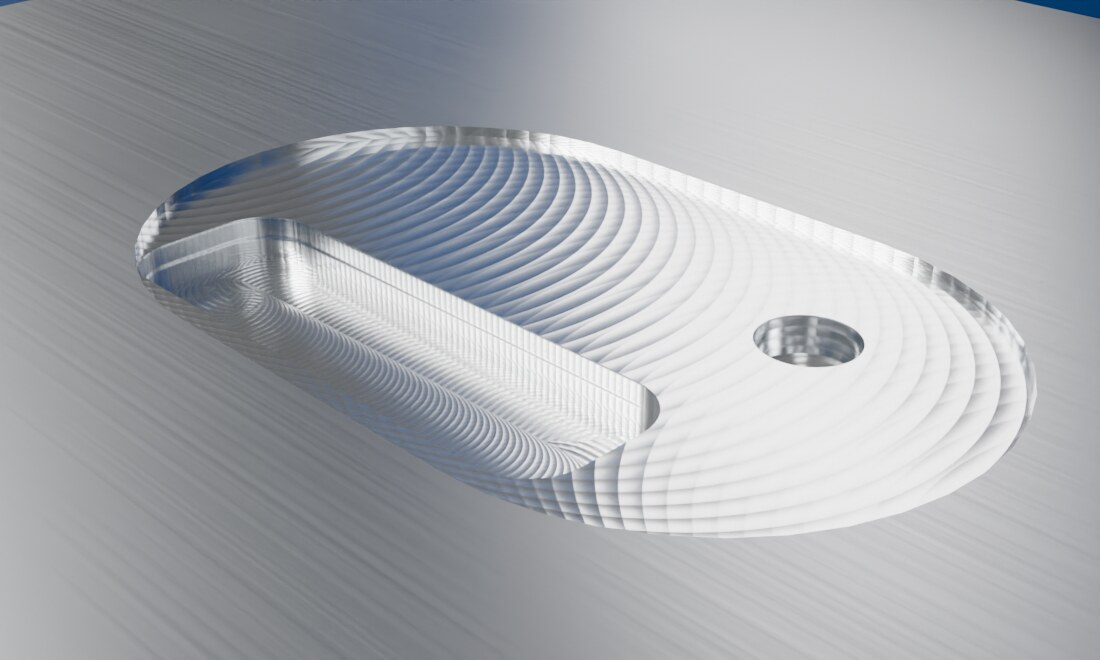
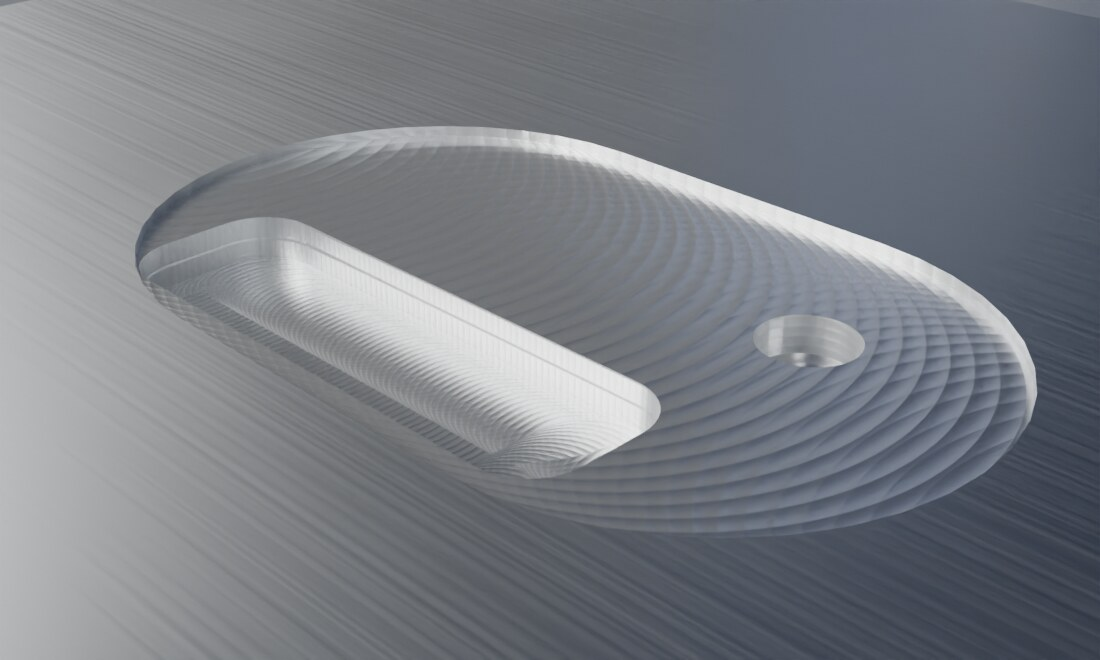
Task 0280: stop 60's camera rides on the table, guide pictures, before/after sheet
Claude-Session: https://claude.ai/code/session_01LGPBd7fAg5Luxdco3vziM1

diff --git a/tasks/0280_page/index.html b/tasks/0280_page/index.html
@@ -1,0 +1,16 @@
+<!doctype html><meta charset=utf-8><title>Task 0280 tool marks</title>
+<style>body{font-family:sans-serif;margin:16px;background:#f4f4f4;color:#222}img{max-width:100%;border:1px solid #bbb}h2{margin-top:28px}</style>
+<h1>Task 0280 – tool marks before / after, defaults only</h1>
+<p>Each sheet: top row before (0.2.201), bottom row after. Columns: the stop's own camera, a mid view of the cut, a close-up of a floor, a close-up of a wall; each in EEVEE and Cycles (24 samples, denoised), 480 × 270 px (the picture size the marks' level of detail is set for). Learning-hub sets, invented test models only; Mark size as each set has it (1, stop 60: 7). Views a set has no such face for are grey.</p>
+<h2>A person changes the tool (stop 55)</h2><img src='55_operator.jpg' alt='A person changes the tool (stop 55)'>
+<h2>CNC gantry: G-code, acceleration, set-up (stops 56, 57, 69)</h2><img src='56_gcode.jpg' alt='CNC gantry: G-code, acceleration, set-up (stops 56, 57, 69)'>
+<h2>Three tools and the hand (stops 58, 59)</h2><img src='58_tools.jpg' alt='Three tools and the hand (stops 58, 59)'>
+<h2>Tool marks (stop 60)</h2><img src='60_marks.jpg' alt='Tool marks (stop 60)'>
+<h2>Tool changer (stop 61)</h2><img src='61_atc.jpg' alt='Tool changer (stop 61)'>
+<h2>Double-arm tool changer (stop 62)</h2><img src='62_doublearm.jpg' alt='Double-arm tool changer (stop 62)'>
+<h2>4th axis (stop 63)</h2><img src='63_rotary4.jpg' alt='4th axis (stop 63)'>
+<h2>5th axis (stop 64)</h2><img src='64_rotary5.jpg' alt='5th axis (stop 64)'>
+<h2>The app makes the toolpath (stop 65)</h2><img src='65_toolpath.jpg' alt='The app makes the toolpath (stop 65)'>
+<h2>Milling a slot (stop 66)</h2><img src='66_chips.jpg' alt='Milling a slot (stop 66)'>
+<h2>Pocket with air (stop 67)</h2><img src='67_air.jpg' alt='Pocket with air (stop 67)'>
+<h2>Pocket with coolant (stop 68)</h2><img src='68_coolant.jpg' alt='Pocket with coolant (stop 68)'>

diff --git a/tests/test_machining.py b/tests/test_machining.py
@@ -397,7 +397,9 @@ def test_queue_render_shows_the_cut(scene, tmp_path):
     last = np.asarray(Image.open(os.path.join(job.output, frames[-1])).convert("RGB"), dtype=np.int16)
     changed = np.abs(first - last).max(axis=2) > 25
     share = changed.mean()
-    assert 0.002 < share < 0.2, share                    # the slot, and only the slot, changed
+    # the slot, and only the slot, changed (task 0280: satin cut faces are nearer the block's own grey: 0.0018 of
+    # the picture differs clearly, 0.0022 before)
+    assert 0.001 < share < 0.2, share
     ys, xs = np.nonzero(changed)
     assert np.ptp(xs) > 3 * np.ptp(ys) / 2, (np.ptp(xs), np.ptp(ys))   # a long slot, seen from the side
 

diff --git a/fresing_render/blender/tour.py b/fresing_render/blender/tour.py
@@ -3460,6 +3460,11 @@ def build_marks(b: Build):
     away = cam.matrix_world.translation - centre   # nearer than the fit goes: the strip fills the picture
     cam.location = centre + away.normalized() * MARKS_CAMERA
     cam.data.clip_start = 0.01
+    # task 0280: the test mill is a VMC (task 0249) – its table carries the block away at the end of the program
+    # (X-90): the camera rides on the table, so the stop's last frame still shows the cut
+    _update()
+    table = _ob(sc, "X.ASM")
+    cam.parent, cam.matrix_parent_inverse = table, table.matrix_world.inverted()
     a.start_shot = _shot(b, "Tour: tool marks").name
 
 
